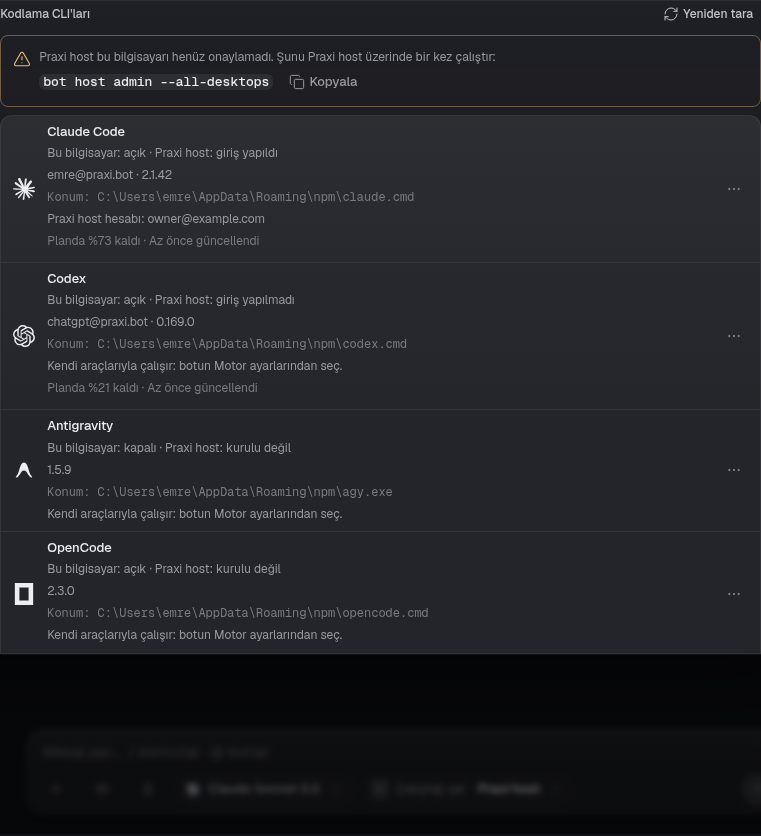
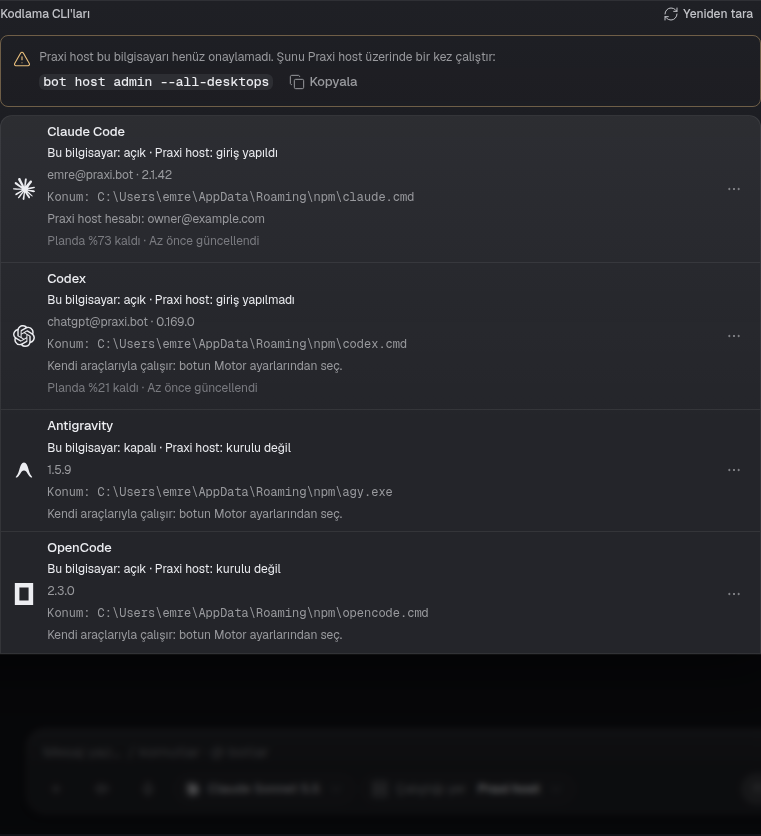
fix(ui): contrast of the Coding CLIs path and status lines (Clay theme)
The inline path used the faint text colour and the status line sat at 4.48:1 in Clay at 640 px;
both now meet WCAG AA, so check:visual passes. Retake the after captures.

diff --git a/apps/desktop/ui/src/views/settings/AiPage.module.css b/apps/desktop/ui/src/views/settings/AiPage.module.css
@@ -83,7 +83,9 @@
 .moreEngines > summary::-webkit-details-marker { display: none; }
 .moreEngines > summary:hover { color: var(--color-text); }
 .moreEngines > summary:focus-visible { outline: none; box-shadow: var(--shadow-focus); }
-.cliPath { overflow-wrap: anywhere; color: var(--color-text-faint); font-family: var(--font-mono); font-size: var(--font-size-xs); }
+.cliPath { overflow-wrap: anywhere; color: var(--color-text-muted); font-family: var(--font-mono); font-size: var(--font-size-xs); }
+/* The status of a row ("This computer: on · server: signed in") is its main line: full text colour. */
+.cliPlaces { color: var(--color-text); }
 .cliCommand { white-space: pre-wrap; overflow-wrap: anywhere; margin: var(--space-1) var(--space-0); font-family: var(--font-mono); font-size: var(--font-size-xs); color: var(--color-text); }
 .cliOutput { max-height: var(--size-list-max); overflow: auto; white-space: pre-wrap; overflow-wrap: anywhere; padding: var(--space-3); background: var(--color-surface-active); color: var(--color-text); font-size: var(--font-size-xs); border-radius: var(--radius-card); }
 .cliApproval { margin-top: var(--space-3); min-width: var(--space-0); }

diff --git a/apps/desktop/ui/src/views/settings/CodingClisBlock.tsx b/apps/desktop/ui/src/views/settings/CodingClisBlock.tsx
@@ -149,7 +149,7 @@ function CodingCliRow({
               <span className={styles.miniChip}>{t("settingsModal.ai.detected.experimentalChip")}</span>
             ) : null}
           </span>
-          <span className={styles.sub} data-testid={`coding-cli-places-${row.id}`}>
+          <span className={`${styles.sub} ${styles.cliPlaces}`} data-testid={`coding-cli-places-${row.id}`}>
             {placeLabel(t, row, serverName, showServer)}
           </span>
           {meta ? <span className={styles.sub}>{meta}</span> : null}
